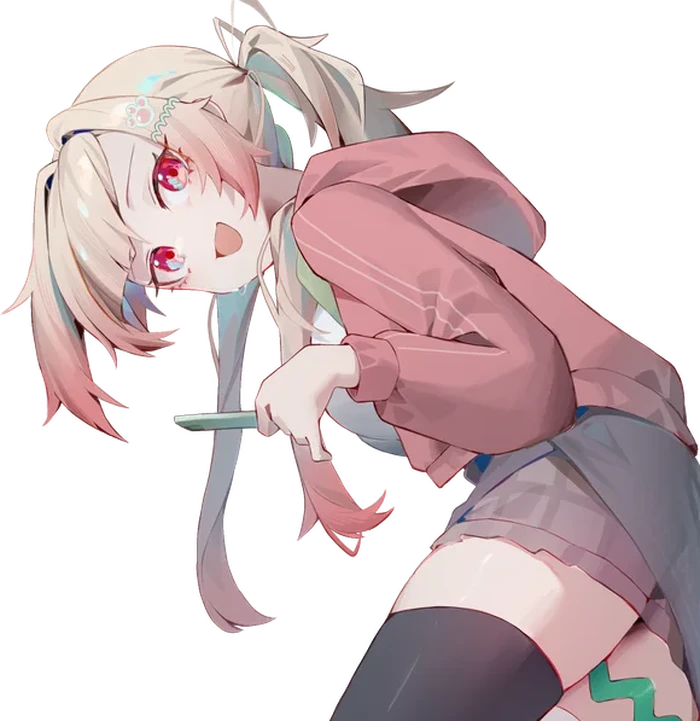
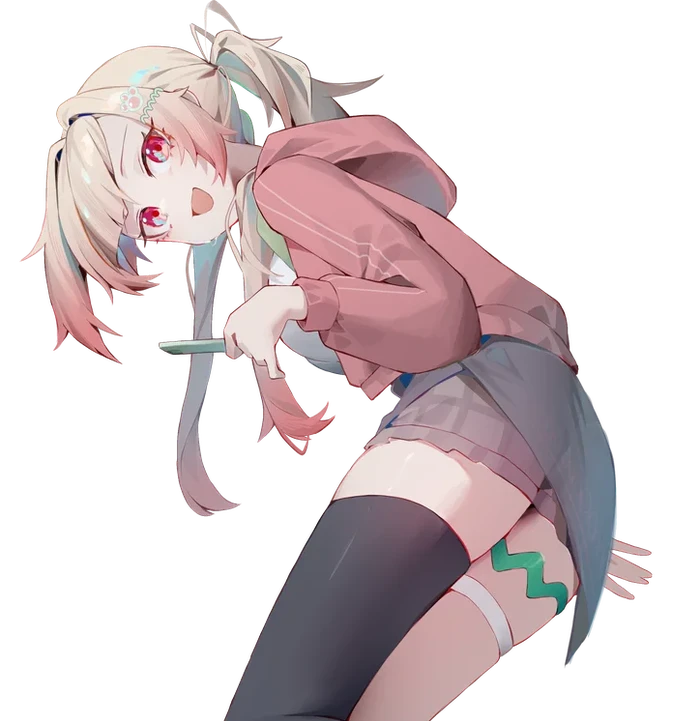
KotoRiyo: recenter Look 1 half, widen Look 2 half
Claude-Session: https://claude.ai/code/session_0182ETGqkY6VZC2ACV9rE9Mb

diff --git a/index.html b/index.html
@@ -965,7 +965,7 @@ var TALENTS = [
   { id:'justpark', name:['Justpark Channel (จีน)','Justpark Channel (Jeen)'], short:'Justpark', ini:'JP', type:'KOL', aff:{name:'GaconX', logo:'logos/gaconx-mark.png'}, langs:['th'], color:'#FFFFFF', img:'talent-justpark.jpg', face:'talent-justpark-face.jpg?v=12', tags:['#Gaming'], works:['review'], links:[['YouTube',591000,'https://www.youtube.com/@justparkchannel1419'],['TikTok',13600,'https://www.tiktok.com/@justparkchannel'],['Facebook',34000,'https://www.facebook.com/JeenJustpark'],['Instagram',314,'https://www.instagram.com/justpark_channel/']], quote:['ช่องรีวิวเกมที่ลงคลิปทุกวัน...... ที่ทำเสร็จ','A game review channel with a new clip every day...... that gets finished.'] },
   { id:'pekorin', img:'talent-pekorin.webp', face:'talent-pekorin-face.webp?v=12', halves:['talent-pekorin-half.webp'], card:'talent-pekorin-half.webp', name:'PekorinSSR', short:'Pekorin', ini:'PK', type:'VTuber', aff:'indie', langs:['th'], color:'#F3E9FB', tags:['#Gaming','#Cosplay','#Review','#IRL','#JustChatting'], works:['review','promo','dub','collab','cover','tiein'], links:[['YouTube',22800,'https://www.youtube.com/@pekorin_ssr'],['TikTok',60000,'https://www.tiktok.com/@pekorinssr'],['Facebook',40200,'https://www.facebook.com/PekorinSSR']], quote:['VTuber เสียงแจ๋ว ป่วน เกรียน แต่ก็น่ารัก พูดเก่ง รีวิวได้ หัวไว รักงาน รักเงิน รักทุกคน','A VTuber with a bright voice: chaotic, cheeky and still adorable. A great talker who can review, thinks fast, and loves work, money and everyone.'] },
   { id:'era', img:'talent-era.webp', face:'talent-era-face.webp?v=13', halves:['talent-era-half.webp'], card:'talent-era-half.webp', name:'Era', short:'Era', ini:'ER', type:'VTuber', aff:{name:'Algorhythm Project', logo:'logos/algorhythm.png'}, langs:['th','en','jp'], color:'#E6F4E4', tags:['#Talking','#Horror'], works:['promo','review','dub','collab','cover'], note:['รีวิวได้ทุกประเภท · ไม่รับงานแนวล่อแหลม','Reviews any category · No suggestive content'], links:[['YouTube',23400,'https://www.youtube.com/@Era_ARP'],['TikTok',10500,'https://www.tiktok.com/@era_arp'],['Instagram',6200,'https://www.instagram.com/era.the.first/']], quote:['VTuber สายสดใส คุยเก่งเป็นที่หนึ่ง เมาท์ได้ตั้งแต่สากกะเบือยันเรือรบแบบ nonstop! ร้องเพลงก็ได้ รีวิวก็เก่ง ไอเดียก็มี พร้อมเสิร์ฟความสนุกและรอยยิ้มในทุกงานและทุกคนแล้วค่ะ!','A bright, bubbly VTuber and a champion talker who can chat about anything under the sun, nonstop! She sings, reviews like a pro and is full of ideas, ready to bring fun and smiles to every project and everyone!'] },
-  { id:'kotoriyo', img:'talent-kotoriyo-sit.webp', face:'talent-kotoriyo-face.webp?v=12', forms:['talent-kotoriyo-sit.webp','talent-kotoriyo.webp','talent-kotoriyo-chibi1.webp','talent-kotoriyo-chibi2.webp'], halves:['talent-kotoriyo-half.webp?v=3','talent-kotoriyo-half2.webp','talent-kotoriyo-chibi1.webp','talent-kotoriyo-chibi2.webp'], flat:[false,false,true,true], formNames:[['ร่าง 1','Look 1'],['ร่าง 2','Look 2'],['Chibi 1','Chibi 1'],['Chibi 2','Chibi 2']], card:'talent-kotoriyo-half.webp?v=3', name:'KotoRiyo', short:'KotoRiyo', ini:'KR', type:'VTuber', aff:'indie', langs:['th'], color:'#FBE8EE', tags:['#Singing','#FreeTalk'], works:['promo','dub','collab','cover'], links:[['YouTube',8467,'https://www.youtube.com/@kotoriyo.official'],['TikTok',5023,'https://www.tiktok.com/@kotoriyo_'],['Facebook',2800,'https://www.facebook.com/profile.php?id=61578431919963'],['Instagram',1500,'https://www.instagram.com/kotoriyo.official/'],['X',2375,'https://x.com/kotoriyo_']], quote:['สาวน้อยที่ตลกไม่พัก แต่ความน่ารักให้เป็นที่ 1 (･ω･) 🩷','A girl who never stops being funny, but cuteness always comes first (･ω･) 🩷'] },
+  { id:'kotoriyo', img:'talent-kotoriyo-sit.webp', face:'talent-kotoriyo-face.webp?v=12', forms:['talent-kotoriyo-sit.webp','talent-kotoriyo.webp','talent-kotoriyo-chibi1.webp','talent-kotoriyo-chibi2.webp'], halves:['talent-kotoriyo-half.webp?v=4','talent-kotoriyo-half2.webp?v=2','talent-kotoriyo-chibi1.webp','talent-kotoriyo-chibi2.webp'], flat:[false,false,true,true], formNames:[['ร่าง 1','Look 1'],['ร่าง 2','Look 2'],['Chibi 1','Chibi 1'],['Chibi 2','Chibi 2']], card:'talent-kotoriyo-half.webp?v=4', name:'KotoRiyo', short:'KotoRiyo', ini:'KR', type:'VTuber', aff:'indie', langs:['th'], color:'#FBE8EE', tags:['#Singing','#FreeTalk'], works:['promo','dub','collab','cover'], links:[['YouTube',8467,'https://www.youtube.com/@kotoriyo.official'],['TikTok',5023,'https://www.tiktok.com/@kotoriyo_'],['Facebook',2800,'https://www.facebook.com/profile.php?id=61578431919963'],['Instagram',1500,'https://www.instagram.com/kotoriyo.official/'],['X',2375,'https://x.com/kotoriyo_']], quote:['สาวน้อยที่ตลกไม่พัก แต่ความน่ารักให้เป็นที่ 1 (･ω･) 🩷','A girl who never stops being funny, but cuteness always comes first (･ω･) 🩷'] },
   { id:'zona', halves:['talent-zona-half.webp?v=2'], card:'talent-zona-half.webp?v=2', img:'talent-zona.webp', face:'talent-zona-face.webp?v=13',  name:'ZONA', short:'ZONA', ini:'ZN', type:'VTuber', aff:{name:'Polygon', logo:'logos/polygon-mark.png'}, langs:['th','en','jp'], color:'#CFE6FF', tags:['#Singing','#FreeTalk','#Gaming'], works:['promo','review','cover','collab','dub'], links:[['YouTube',172662,'https://www.youtube.com/c/ZonaCh'],['TikTok',63715,'https://www.tiktok.com/@zonaplg'],['Facebook',35123,'https://www.facebook.com/ZONAPolygon'],['X',53983,'http://twitter.com/ZonaPLG']], quote:['โซน่า ออก้าแห่งท้องทะเลผู้รักในเสียงเพลงและเท่(ซน)มาก','Zona, the music-loving orca of the sea. Super cool (and super cheeky).'] },
   { id:'hoku', halves:['talent-hoku-half.webp'], card:'talent-hoku-half.webp', img:'talent-hoku.webp?v=3', face:'talent-hoku-face.webp?v=13',  name:'Hoku', short:'Hoku', ini:'HK', type:'VTuber', aff:{name:'Polygon', logo:'logos/polygon-mark.png'}, langs:['th','en'], color:'#E9DFC8', tags:['#Singing','#FreeTalk','#Gaming','#Horror'], works:['promo','review','cover','collab','dub'], links:[['YouTube',119655,'https://www.youtube.com/@HokuPLG'],['TikTok',35000,'https://www.tiktok.com/@hokuplg'],['Facebook',23440,'http://facebook.com/HokuPolygon'],['X',32083,'http://twitter.com/HokuPLG']], quote:['โฮคุ นกฮูกเปี่ยมไมตรีที่ชอบเรื่องผีและหาทำ','Hoku, a friendly owl who loves ghost stories and always finds something to get into.'] },
   { id:'lucene', halves:['talent-lucene-half.webp'], card:'talent-lucene-half.webp', img:'talent-lucene.webp', face:'talent-lucene-face.webp?v=12',  name:'Lucene', short:'Lucene', ini:'LC', type:'VTuber', aff:{name:'Polygon', logo:'logos/polygon-mark.png'}, langs:['th','en'], color:'#FDE2EE', tags:['#Singing','#FreeTalk','#Gaming','#Gacha'], works:['promo','review','cover','collab','dub'], links:[['YouTube',83400,'https://www.youtube.com/@LucenePLG'],['TikTok',24071,'https://www.tiktok.com/@plglucene'],['Facebook',20102,'https://www.facebook.com/LucenePolygon'],['X',19508,'https://x.com/LucenePLG']], quote:['ลูเซเน่ กระต่ายอนิเมะผู้เสกความสดใสและชอบเสี่ยงดวง💸','Lucene, an anime bunny who conjures up cheer and loves to try her luck 💸'] },
